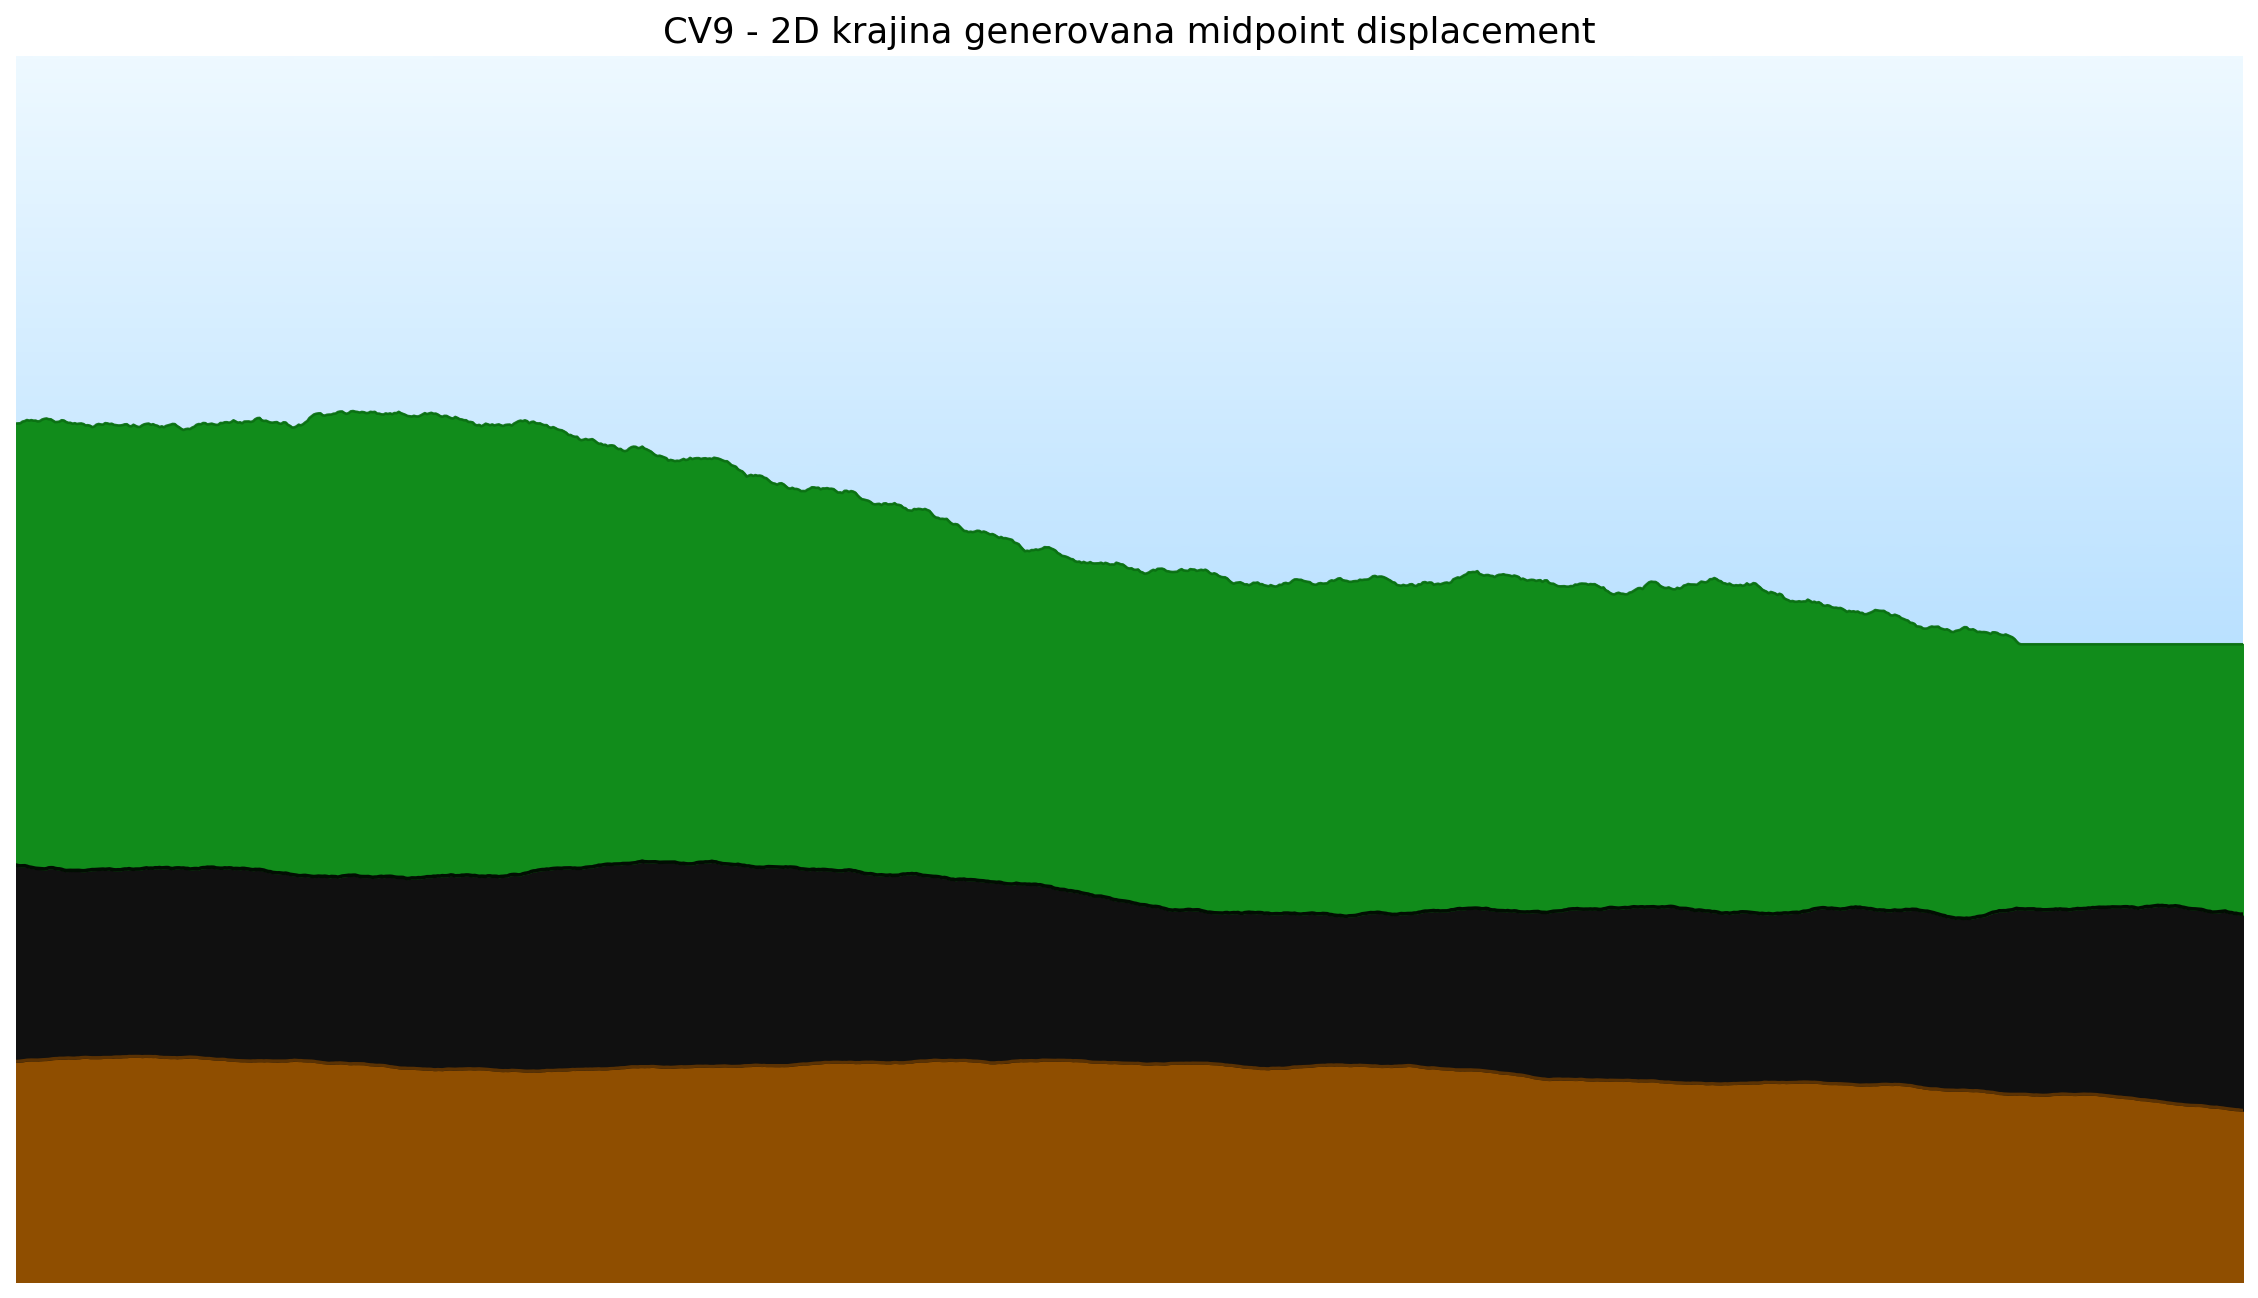
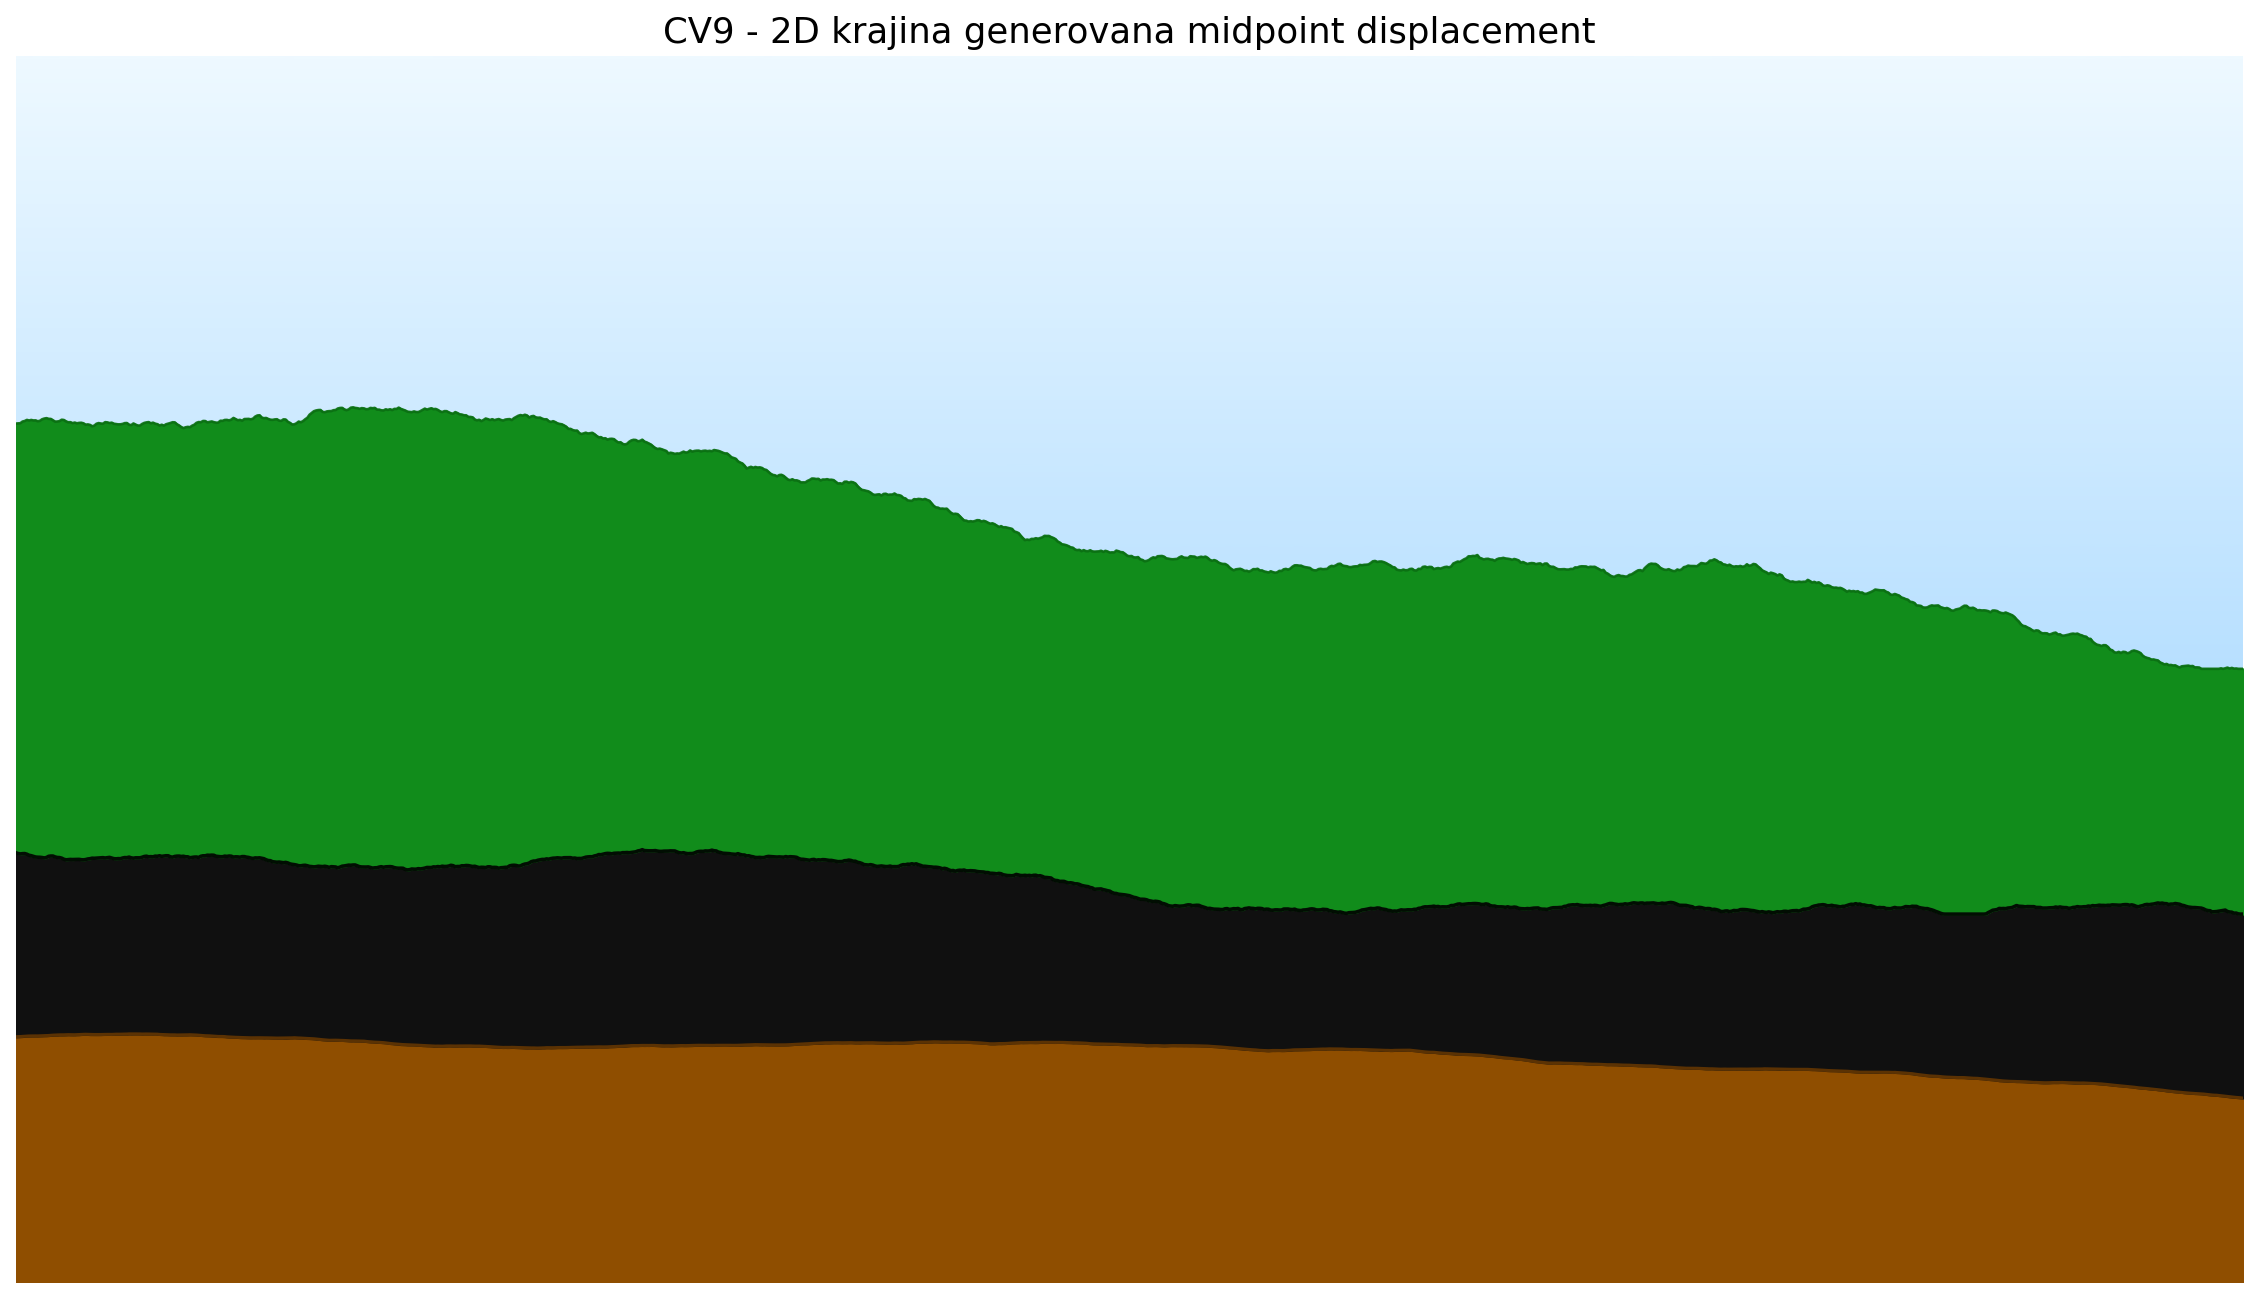
changes

diff --git a/cv9.py b/cv9.py
@@ -26,32 +26,32 @@ class TerrainLayer:
 LAYERS = (
     TerrainLayer(
         name="Puda",
-        start_y=0.18,
-        end_y=0.14,
+        start_y=0.2,
+        end_y=0.15,
         initial_offset=0.025,
-        roughness=0.55,
-        min_height=0.09,
-        max_height=0.24,
+        roughness=0.50,
+        min_height=0.1,
+        max_height=0.25,
         color="#8f4e00",
     ),
     TerrainLayer(
         name="Skaly",
-        start_y=0.34,
+        start_y=0.35,
         end_y=0.30,
-        initial_offset=0.040,
-        roughness=0.57,
-        min_height=0.27,
-        max_height=0.43,
+        initial_offset=0.04,
+        roughness=0.60,
+        min_height=0.30,
+        max_height=0.45,
         color="#101010",
     ),
     TerrainLayer(
         name="Vegetace",
         start_y=0.70,
-        end_y=0.48,
+        end_y=0.50,
         initial_offset=0.085,
         roughness=0.60,
-        min_height=0.52,
-        max_height=0.82,
+        min_height=0.50,
+        max_height=0.80,
         color="#118c1b",
     ),
 )
@@ -62,6 +62,7 @@ def midpoint_displacement(start_y, end_y, iterations, initial_offset, roughness,
     offset = initial_offset
 
     for _ in range(iterations):
+        # pole pro nove body
         refined = np.empty(heights.size * 2 - 1, dtype=float)
         refined[0::2] = heights
 
@@ -71,6 +72,8 @@ def midpoint_displacement(start_y, end_y, iterations, initial_offset, roughness,
         # vypocet noveho bodu jako prumer sousednich + perbutace
         refined[1::2] = ((heights[1:] + heights[:-1]) / 2) + perbutation
         heights = refined
+
+        # s narustajici iteracemi se offset zmensuje, aby krajina byla jemnejsi
         offset *= roughness
 
     x_axis = np.linspace(0.0, 1.0, heights.size)
